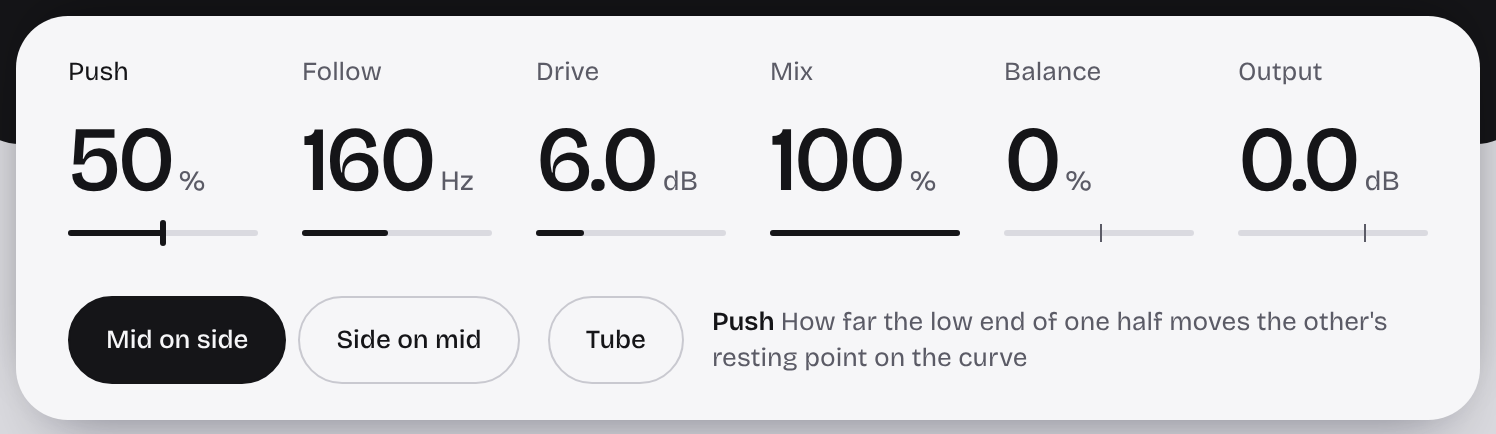
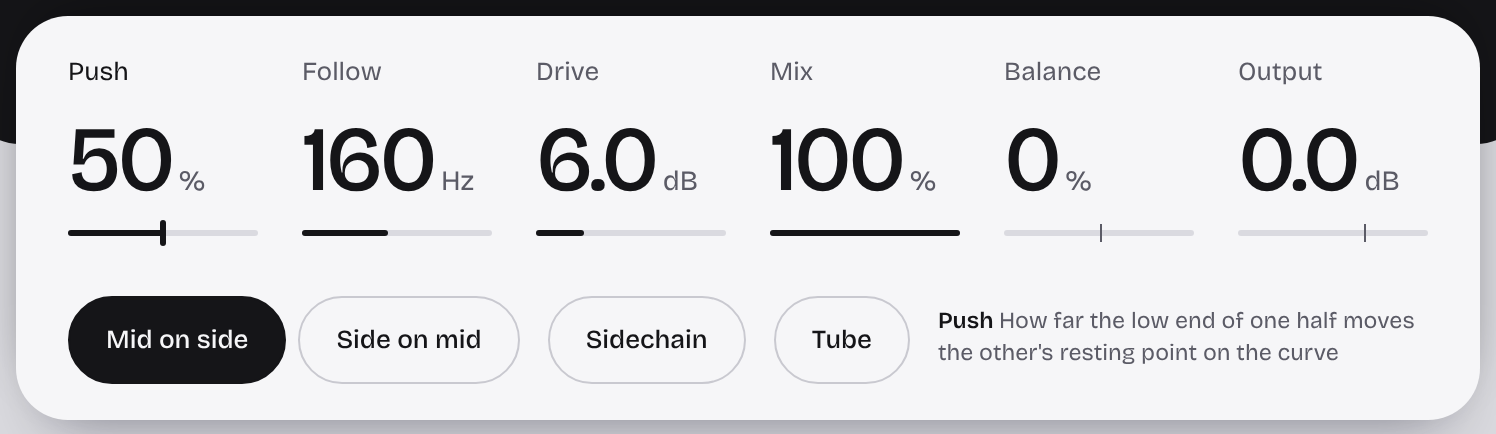
Undertow 0.3.0: another track can do the pushing
A sidechain input and a Sidechain switch (id 18), off by default, so
nothing that shipped changes. A test holds the tube window's Bias to
adding to the bass's push, not replacing it.

Claude-Session: https://claude.ai/code/session_01LsEv5JJ6sX3X7Qe9Tsco2Y

diff --git a/plugins/undertow/ui/main.js b/plugins/undertow/ui/main.js
@@ -5,7 +5,7 @@
 
 import {
   mount, glass, header, stage, readouts, meter, picture, sheet, values,
-  value, choice, foot, h, column, listen, tubeCurve
+  value, choice, foot, h, column, listen, tubeCurve, flag
 } from './kit/kit.js'
 
 // As src/lib.rs has it.
@@ -55,7 +55,9 @@ const draw = (ui) => (pen) => {
   ctx.lineJoin = 'round'
   ctx.lineCap = 'round'
 
-  const midLeans = ui.p.steer.plain === 0
+  // With the sidechain doing the pushing the editor is not sent
+  // what pushes, so the lean meter draws it.
+  const midLeans = ui.p.steer.plain === 0 && !ui.p.key.plain
   const live = midLeans && pen.signal?.input.length ? pen.signal : null
   const wake = live ? biases(ui, live) : null
   const bias = rest + (wake
@@ -137,12 +139,17 @@ const PRESETS = [
 ]
 
 const NOTES = ['The middle leans on the sides', 'The sides lean on the middle']
+const KEYED = ['The sidechain leans on the sides', 'The sidechain leans on the middle']
 
 // The note under the name says which half is leaning.
 const leaning = (ui) => {
   const note = h('span')
-  const show = () => { note.textContent = NOTES[ui.p.steer.plain] }
+  const show = () => {
+    const from = ui.p.key.plain ? KEYED : NOTES
+    note.textContent = from[ui.p.steer.plain]
+  }
   ui.p.steer.on(show)
+  ui.p.key.on(show)
   show()
   return note
 }
@@ -170,5 +177,5 @@ mount((ui) => [
       value(ui.p.mix, { ui }),
       value(ui.p.balance, { ui, bipolar: true }),
       value(ui.p.output, { ui, bipolar: true })),
-    foot(ui, choice(ui.p.steer, { ui })))
+    foot(ui, choice(ui.p.steer, { ui }), flag(ui.p.key, { ui })))
 ], { presets: PRESETS })

diff --git a/plugins/undertow/src/lib.rs b/plugins/undertow/src/lib.rs
@@ -22,6 +22,7 @@ pub const TUBE_BIAS: usize = 10;
 pub const TUBE_GRID: usize = 11;
 pub const TUBE_SAG: usize = 12;
 pub const TUBE_GLOW: usize = 13;
+pub const KEY: usize = 14;
 // Indexes into METERS.
 pub const INPUT: usize = 0;
 pub const LEVEL: usize = 1;
@@ -133,8 +134,11 @@ impl Plugin for Undertow {
         kit::tube_grid(15),
         kit::tube_sag(16),
         kit::tube_glow(17),
+        kit::key(18),
     ];
 
+    // A sidechain: another track can do the pushing.
+    const KEY_IN: u32 = 2;
     const METERS: &'static [Param] = &[
         meter(6, "input", "In"),
         meter(7, "level", "Out"),
@@ -194,6 +198,7 @@ impl Plugin for Undertow {
         let matching = block.choice(MATCH) == 1;
         let balance = block.value(BALANCE) / 100.0;
         let listen = block.choice(LISTEN);
+        let keyed = block.on(KEY);
         // The valve is refined once a block: these are set and left,
         // not ridden.
         self.tube.set(TubeShape {
@@ -216,11 +221,18 @@ impl Plugin for Undertow {
             let (mix, output) = (self.mix.next(mix), self.output.next(output));
             let (left, right) = (sample(block, 0, i), sample(block, 1, i));
             let (mid, side) = ((left + right) * 0.5, (left - right) * 0.5);
-            let (key, carried) = if mid_leans { (mid, side) } else { (side, mid) };
+            let (passed, carried) = if mid_leans { (mid, side) } else { (side, mid) };
+            // What does the pushing: the other half of this sound, or
+            // with the sidechain on, the middle of the track routed
+            // there, and then nothing of this sound's own.
+            let pusher = match keyed {
+                true => (key_sample(block, 0, i) + key_sample(block, 1, i)) * 0.5,
+                false => passed,
+            };
 
             // The bias is the leaning half's own low wave, not an
             // envelope of it: up and down push opposite ways.
-            let bias = self.low.next(key).low * push;
+            let bias = self.low.next(pusher).low * push;
             // With the tube window at rest this is `leaned` exactly.
             let wet = self.tube.next(carried * drive, bias) / drive;
             let carried = carried + (wet - carried) * mix;
@@ -228,9 +240,9 @@ impl Plugin for Undertow {
             self.lean = (self.lean - self.lean_fall).max(bias.abs() / REACH);
             swing = swing.max((carried * drive).abs() / REACH);
             let (mid, side) = if mid_leans {
-                (key, carried)
+                (passed, carried)
             } else {
-                (carried, key)
+                (carried, passed)
             };
             // Matched to what came in before the output trim, which is
             // then the person's own to set on top.
@@ -257,6 +269,12 @@ impl Plugin for Undertow {
         block.meter(LEAN, self.lean.min(1.0) as f64);
         block.meter(SWING, swing.min(1.0) as f64);
     }
+}
+
+// Sample `i` of sidechain channel `ch`: silence if nothing is routed.
+#[inline]
+fn key_sample(block: &Block, ch: usize, i: usize) -> f32 {
+    block.key(ch).map_or(0.0, |buf| buf[i])
 }
 
 // Sample `i` of input `ch`; a mono input answers for both sides.

diff --git a/plugins/undertow/tests/sound.rs b/plugins/undertow/tests/sound.rs
@@ -349,3 +349,68 @@ fn the_tube_window_changes_the_valve_and_at_rest_changes_nothing() {
     assert!(second(&[(undertow::TUBE_BIAS, 40.0)]) > 0.005);
     assert!(second(&[(undertow::TUBE_GRID, 100.0)]) > 0.001);
 }
+
+// A quiet 1 kHz on the sides, and a 60 Hz bass for whatever is to do
+// the pushing. A bass that moves the sides' resting point shows up
+// beside the tone: 60 Hz either way of it where the valve rests off
+// its centre, 120 Hz where it rests on it.
+// How much of `x` is at exactly `hz`, and nothing either side of it.
+fn only(x: &[f32], hz: f32) -> f32 {
+    let (re, im) = at(x, hz);
+    (re * re + im * im).sqrt()
+}
+
+fn tone_and_bass() -> (Vec<f32>, Vec<f32>, Vec<f32>) {
+    let wave = |hz: f32, gain: f32| -> Vec<f32> {
+        (0..SECOND)
+            .map(|i| gain * (std::f32::consts::TAU * hz * i as f32 / RATE).sin())
+            .collect()
+    };
+    (vec![0.0; SECOND], wave(1000.0, 0.2), wave(60.0, 0.8))
+}
+
+#[test]
+fn the_tube_windows_bias_moves_the_rest_and_the_bass_still_rides_on_it() {
+    let (_, tone, bass) = tone_and_bass();
+    let input = stereo(&bass, &tone);
+    let beside = |settings: &[(usize, f64)]| {
+        let base = [(FOLLOW, 200.0), (DRIVE, 12.0)];
+        let (_, side) = settled(&mut with(&[&base[..], settings].concat()), &input);
+        only(&side, 1060.0)
+    };
+
+    // Bias in the window is where the valve rests; Push is still how
+    // far the bass moves it from there, as much as it ever was.
+    let ridden = beside(&[(PUSH, 80.0), (undertow::TUBE_BIAS, 40.0)]);
+    let still = beside(&[(PUSH, 0.0), (undertow::TUBE_BIAS, 40.0)]);
+    let centred = beside(&[(PUSH, 80.0)]);
+    assert!(still < 1e-5, "nothing rides with no push: {still}");
+    assert!(ridden > 0.002, "the bass rides on the bias: {ridden}");
+    assert!(ridden > centred * 0.3, "{ridden} against {centred}");
+}
+
+#[test]
+fn a_sidechain_does_the_pushing_when_asked_and_only_then() {
+    let (quiet, tone, bass) = tone_and_bass();
+    let own = stereo(&quiet, &tone);
+    let keyed = [own.clone(), vec![bass.clone(), bass.clone()]].concat();
+    let beside = |input: &[Vec<f32>], settings: &[(usize, f64)]| {
+        let base = [(PUSH, 80.0), (FOLLOW, 200.0), (DRIVE, 12.0)];
+        let (_, side) = settled(&mut with(&[&base[..], settings].concat()), input);
+        // Round its centre the curve flattens alike either way, so
+        // the tone is squeezed twice in each wave of the bass.
+        only(&side, 1120.0)
+    };
+    let on = [(undertow::KEY, 1.0)];
+
+    // Another track's bass pushes this one's sides.
+    let pushed = beside(&keyed, &on);
+    assert!(pushed > 0.002, "{pushed}");
+    // Switched off, what is on the sidechain is not heard at all.
+    assert!(beside(&keyed, &[]) < 1e-5);
+    // Switched on with nothing routed, nothing pushes: its own bass
+    // no longer does.
+    let bassy = stereo(&bass, &tone);
+    assert!(beside(&bassy, &on) < 1e-5);
+    assert!(beside(&bassy, &[]) > 0.002);
+}

diff --git a/plugins/undertow/docs/manual.md b/plugins/undertow/docs/manual.md
@@ -136,6 +136,21 @@ a wide synth bass under a mono vocal.
 
 ![Steered the other way: the sides lean on the middle](images/steered.png)
 
+### Sidechain
+
+**Sidechain**, at the foot of the sheet, hands the pushing to another
+track. Route that track to Undertow's sidechain input in your host
+(it is the second input, named Sidechain), then switch it on. The
+low end of that track's middle, below Follow, now moves the resting
+point, and nothing of this track's own does: a kick or a bass on
+another channel can lean on a pad's sides. Steer still chooses which
+half of this track is leaned on. The sidechain itself is never heard.
+With it on and nothing routed, nothing pushes. While it is on, the
+picture shows how far the resting point has moved but not which way,
+so the ticks are drawn both sides.
+
+![The sidechain doing the pushing](images/sidechain.png)
+
 ### Valve
 
 **Drive** is how hard the carried half goes into the curve, from 0 to
